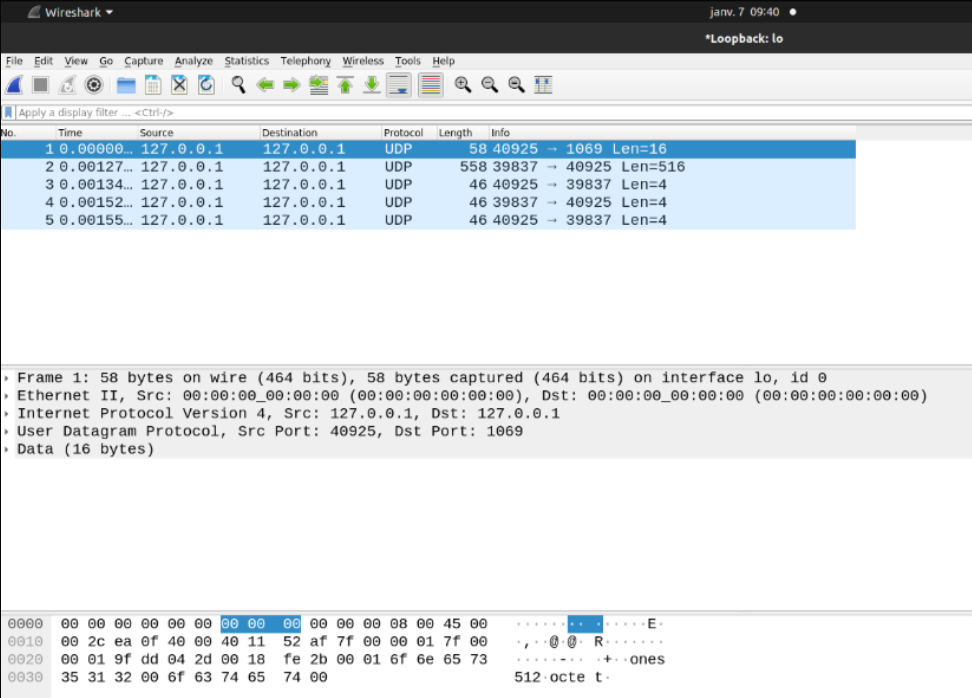
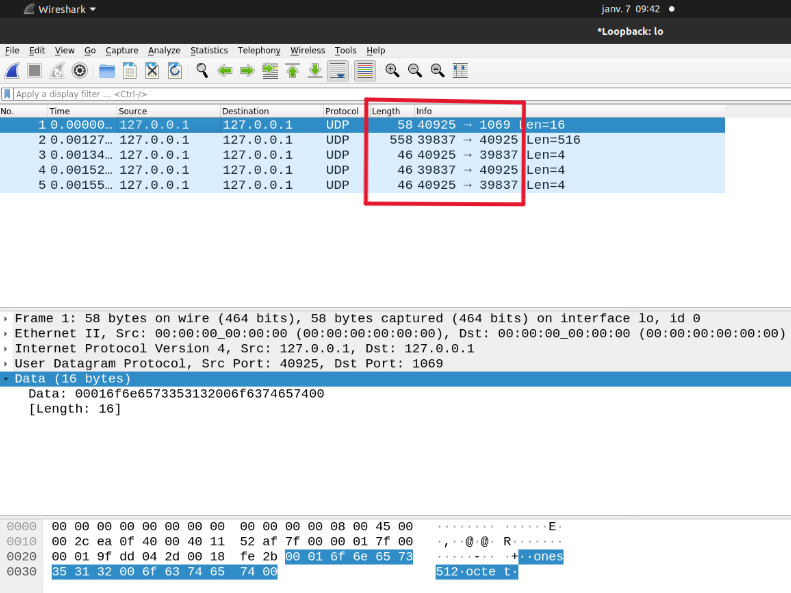
Readme

diff --git a/TFTP/README.md b/TFTP/README.md
@@ -33,10 +33,7 @@ Initially, the client sent all packets to port 1069, even after receiving a resp
 - We updated the code to dynamically adjust the destination port after receiving the first response from the server.
 - Using Wireshark, we validated that the client correctly switched to the server's response port. This can be seen in the screenshots below:
 
-  - **First WRQ Packet**: The client sends the WRQ to port 1069. This is visible in the first packet in Wireshark:
-    ![WRQ Packet](img/image1.png)
-
-  - **Dynamic Port Update**: After the server's response, the client adjusts to the port specified in the server's ACK. Subsequent packets use this new port, as seen in the following packets:
+  - **First WRQ Packet**: The client sends the WRQ to port 1069. This is visible in the first packet in Wireshark and then after the server's response, the client adjusts to the port specified in the server's ACK. 
     ![Dynamic Port Handling](img/image2.png)
 
 ### **Question 5: Debugging with Wireshark**
